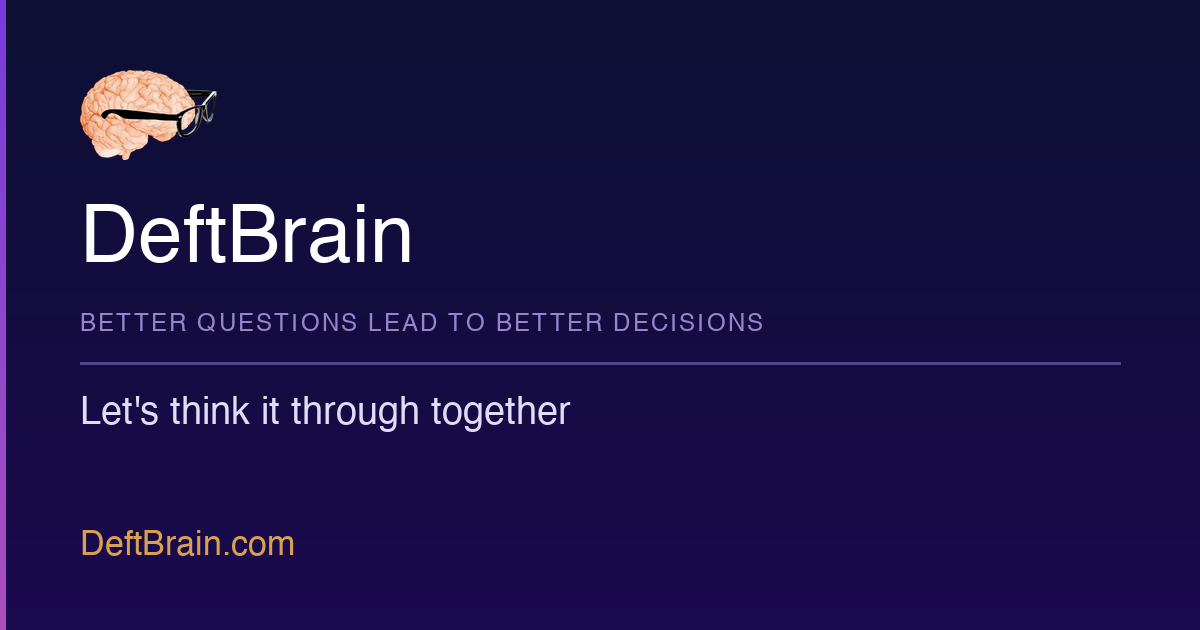
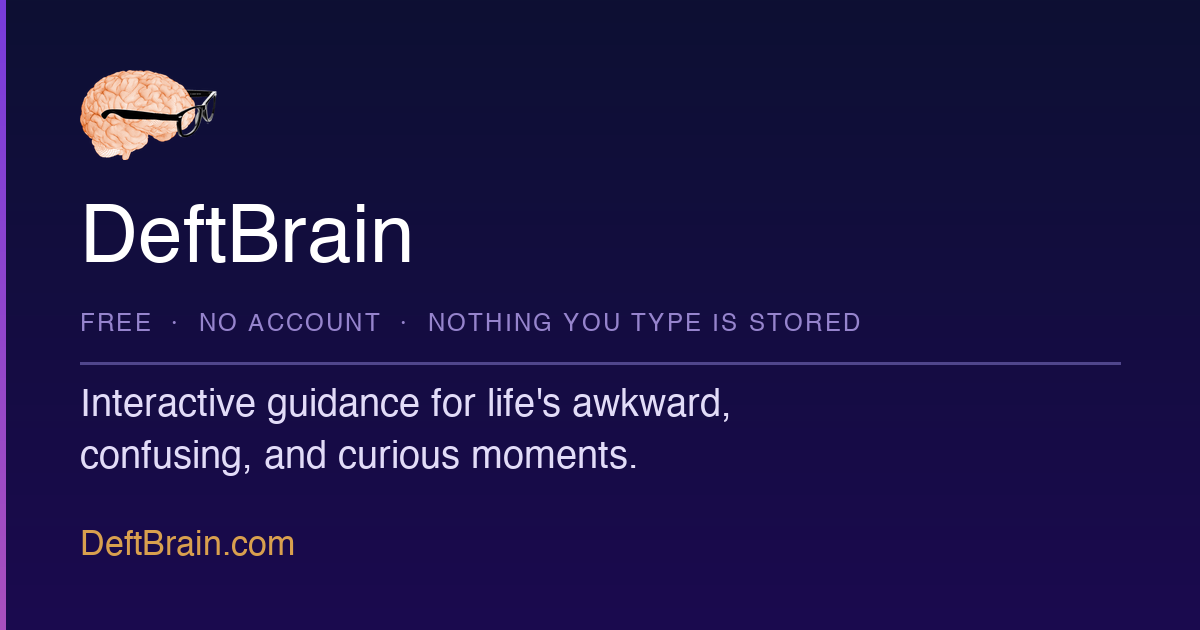
og: the default share image carries the new positioning line
Eyebrow: Free · No account · Nothing you type is stored. Headline:
Interactive guidance for life's awkward, confusing, and curious moments.
The image URL gains ?v=2 so social sites re-fetch it.

Changed region(s): [[0.0617, 0.6032, 0.6167, 0.754], [0.0617, 0.4825, 0.7092, 0.5429]]

diff --git a/public/index.html b/public/index.html
@@ -70,7 +70,7 @@
     <meta property="og:type" content="website" />
     <meta property="og:url" content="https://deftbrain.com" />
     <meta property="og:site_name" content="DeftBrain" />
-    <meta property="og:image" content="https://deftbrain.com/og/default.png" />
+    <meta property="og:image" content="https://deftbrain.com/og/default.png?v=2" />
     <meta property="og:image:width" content="1200" />
     <meta property="og:image:height" content="630" />
 
@@ -78,7 +78,7 @@
     <meta name="twitter:card" content="summary_large_image" />
     <meta name="twitter:title" content="DeftBrain — Interactive guidance for life's awkward, confusing, and curious moments" />
     <meta name="twitter:description" content="Interactive guidance for life's awkward, confusing, and curious moments. 120+ free guided experiences, each one already knowing what to ask you about one specific situation. No signup, nothing stored." />
-    <meta name="twitter:image" content="https://deftbrain.com/og/default.png" />
+    <meta name="twitter:image" content="https://deftbrain.com/og/default.png?v=2" />
 
     <link rel="apple-touch-icon" href="%PUBLIC_URL%/logo192.png" />
     <link rel="manifest" href="%PUBLIC_URL%/manifest.json" />

diff --git a/scripts/prerender.js b/scripts/prerender.js
@@ -45,7 +45,9 @@ const SITE_URL   = 'https://deftbrain.com';
 // with public/index.html, and free of the machinery — the homepage already
 // says "guided experiences", and the machinery stays out of it.
 const DEFAULT_DESCRIPTION = "Interactive guidance for life's awkward, confusing, and curious moments. 120+ free guided experiences — read a lease, check a repair quote, spot a scam, prepare for a doctor visit. No signup, nothing stored.";
-const DEFAULT_OG_IMAGE = `${SITE_URL}/og/default.png`;
+// ?v=2: the image was redrawn 2026-10-02; the query makes social sites,
+// which cache share images by URL, fetch the new one.
+const DEFAULT_OG_IMAGE = `${SITE_URL}/og/default.png?v=2`;
 
 // Source of truth: src/data/tool-og-slugs.json — single shared map
 // imported by prerender.js, useDocumentHead.js, and generate-og.py.

diff --git a/src/hooks/useDocumentHead.js b/src/hooks/useDocumentHead.js
@@ -36,7 +36,9 @@ export function useDocumentHead({ title, description, canonicalPath, ogImageSlug
 
     // ── OG Image ──
     const imgSlug = ogImageSlug || 'default';
-    const ogImageUrl = `${BASE_URL}/og/${imgSlug}.png`;
+    // default.png was redrawn 2026-10-02; ?v=2 matches index.html and
+    // prerender.js so social sites fetch the new one.
+    const ogImageUrl = `${BASE_URL}/og/${imgSlug}.png${imgSlug === 'default' ? '?v=2' : ''}`;
     setMeta('og:image', ogImageUrl, 'property');
     setMeta('og:image:width', '1200', 'property');
     setMeta('og:image:height', '630', 'property');

diff --git a/scripts/generate-og.py b/scripts/generate-og.py
@@ -301,9 +301,10 @@ def make_default_card(out_path, logo_img, logo_w):
     # Wordmark
     draw.text((PAD, PAD + 120), 'DeftBrain', font=head_font, fill=(255, 255, 255, 255))
 
-    # The claim as an EYEBROW. It still comes first, so it still earns the nod —
-    # but small and letter-spaced, it reads as a setup rather than as the point.
-    eyebrow = 'BETTER QUESTIONS LEAD TO BETTER DECISIONS'
+    # The eyebrow carries the reassurance a stranger wants before clicking (the
+    # homepage's own "Free · No account needed · Nothing stored" line); the
+    # headline below carries the positioning.
+    eyebrow = 'FREE  ·  NO ACCOUNT  ·  NOTHING YOU TYPE IS STORED'
     x = PAD
     for ch in eyebrow:                      # Pillow has no letter-spacing
         draw.text((x, PAD + 232), ch, font=eyebrow_font, fill=(150, 132, 205, 255))
@@ -315,7 +316,11 @@ def make_default_card(out_path, logo_img, logo_w):
     # The invitation as the HEADLINE — the largest thing on the card after the
     # wordmark, and the brightest. Reading order is unchanged; only the weight
     # moved, so the line a reader remembers is the one addressed to them.
-    draw.text((PAD, PAD + 314), "Let's think it through together", font=lead_font, fill=(226, 220, 248, 255))
+    # The positioning line (owner's pick, 2026-10-02; also the homepage title),
+    # on two lines — at this size it is too wide for one.
+    for n, line in enumerate(("Interactive guidance for life's awkward,",
+                              "confusing, and curious moments.")):
+        draw.text((PAD, PAD + 306 + n * 52), line, font=lead_font, fill=(226, 220, 248, 255))
 
     # Domain only — the bottom-right brain was a second copy of the mark already
     # at top-left, and one is a signature while two is a pattern. The URL was
